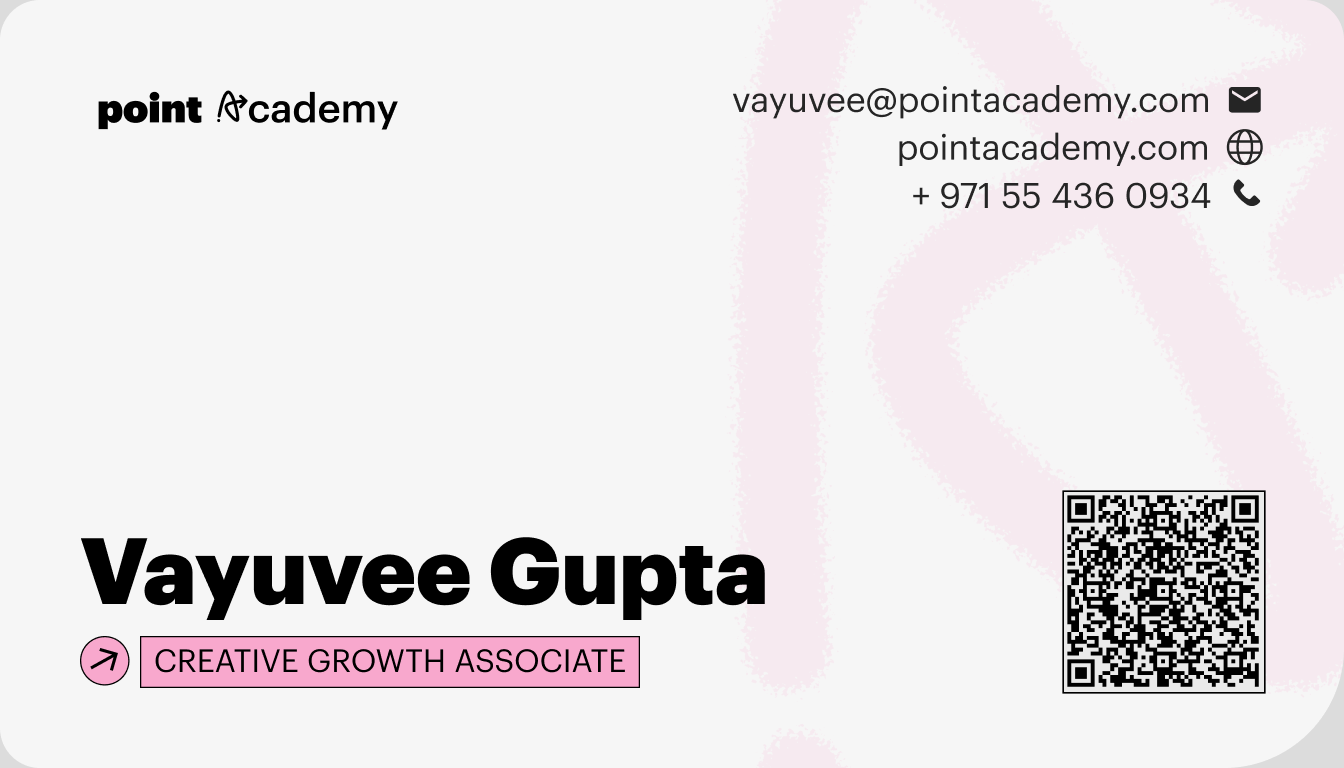
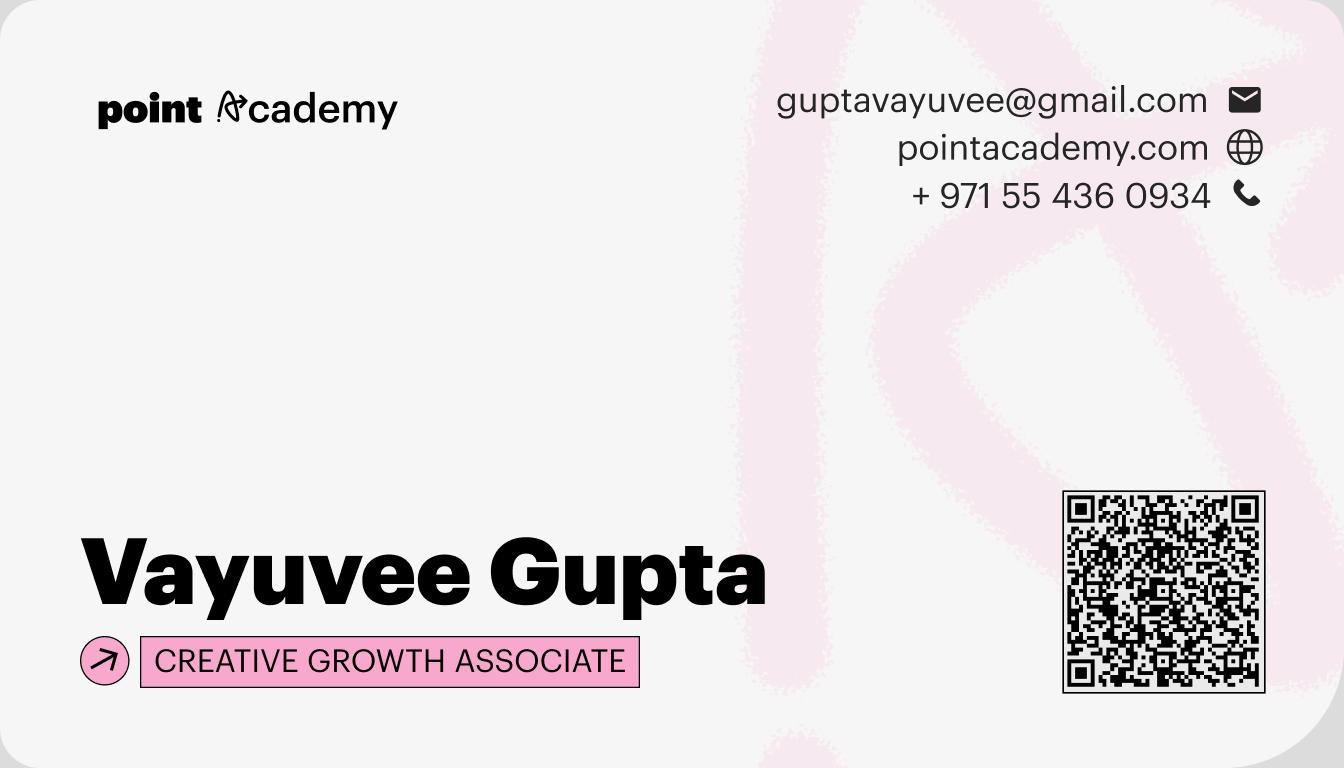
Update Vayuvee's card and contact (new email); make build output order stable
Claude-Session: https://claude.ai/code/session_01GLUx7CpFndRF8Z9hK4GPMR

Changed region(s): [[0.5312, 0.0938, 0.9062, 0.1562]]

diff --git a/point-card/build.py b/point-card/build.py
@@ -74,7 +74,7 @@ for p in data["people"]:
     open(f"{s}/index.html", "w").write(PAGE.format(base=BASE, name=esc(p["name"]), title=esc(p["title"]),
                                                   first=esc(p["first"]), slug=s, accent=p["accent"]))
     open(f"{s}.vcf", "w").write(vcard(p))
-    for v in {s, s.capitalize()}:
+    for v in sorted({s, s.capitalize()}):
         rewrites.append({"source": f"/{v}", "destination": f"/{s}/index.html"})
         rewrites.append({"source": f"/{v}/", "destination": f"/{s}/index.html"})
     print("built", s)
